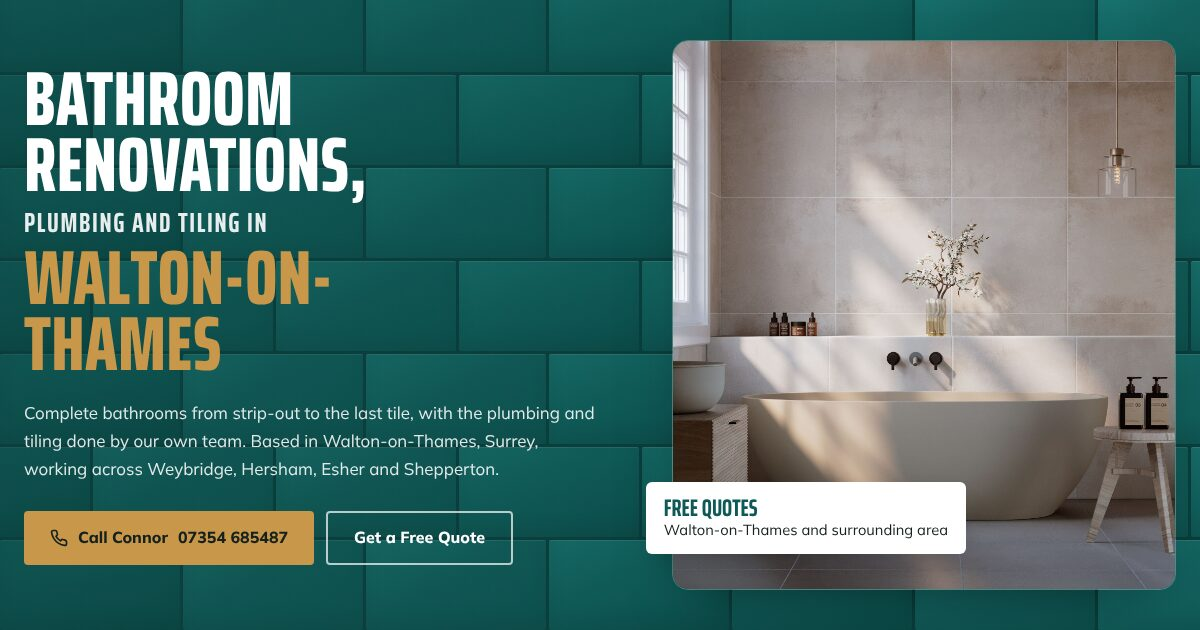
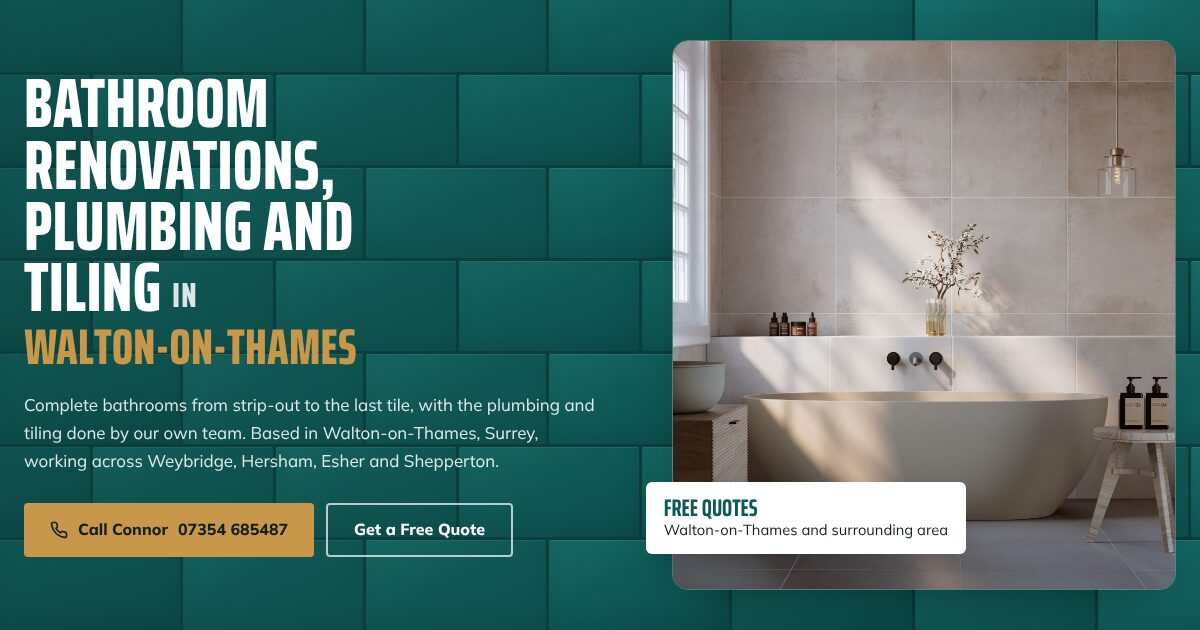
O'Shea Bathrooms A: hero heading at one size, Walton-on-Thames slightly smaller

Changed region(s): [[0.0, 0.0905, 0.3083, 0.6032], [0.0, 0.6333, 0.4933, 0.754], [0.0, 0.7841, 0.4317, 0.9048]]

diff --git a/oshea-bathrooms/index.html b/oshea-bathrooms/index.html
@@ -97,10 +97,10 @@ section{padding-top:96px;padding-bottom:96px}
 
 .hero-grid{width:100%;display:grid;grid-template-columns:1.08fr .92fr;gap:56px;align-items:center;height:clamp(560px,calc(100vh - 68px),800px)}
 .hero-copy{padding-top:24px;padding-bottom:24px}
-.hero h1{color:#fff;font-size:clamp(2.8rem,min(6.4vw,11vh),6.6rem);line-height:.86;letter-spacing:.005em}
+.hero h1{color:#fff;font-size:clamp(2.8rem,min(6vw,10vh),6.2rem);line-height:.88;letter-spacing:.005em}
 .hero h1 .l{display:block}
-.hero h1 .sm{font-size:.36em;letter-spacing:.06em;line-height:1.2;margin:.32em 0 .18em;color:rgba(255,255,255,.9);font-weight:700}
-.hero h1 .br{color:var(--brass)}
+.hero h1 .in{font-size:.5em;letter-spacing:.04em;color:rgba(255,255,255,.85);vertical-align:.12em}
+.hero h1 .br{color:var(--brass);font-size:.72em;margin-top:.12em}
 .lede{max-width:34em;margin-top:22px;font-size:1.06rem;line-height:1.65;color:rgba(255,255,255,.88)}
 .hero-cta{display:flex;flex-wrap:wrap;gap:12px;margin-top:28px}
 .js .hero h1 .l,.js .lede,.js .hero-cta,.js .hero-photo{opacity:0;transform:translateY(22px)}
@@ -249,8 +249,8 @@ footer a:hover{color:#fff}
   .nav-links a.nav-cta{justify-content:center;padding:15px 18px}
   .hero-grid{grid-template-columns:1fr;height:auto;gap:0}
   .hero-copy{padding-top:34px;padding-bottom:30px}
-  .hero h1{font-size:20vw;line-height:.84}
-  .hero h1 .sm{font-size:.3em;margin:.36em 0 .22em}
+  .hero h1{font-size:17vw;line-height:.86}
+  .hero h1 .br{font-size:.7em;margin-top:.16em}
   .lede{font-size:1rem;margin-top:18px}
   .hero-cta{flex-direction:column;margin-top:22px}
   .hero-cta .btn{width:100%}
@@ -308,7 +308,7 @@ footer a:hover{color:#fff}
   <div class="wall" id="wall" aria-hidden="true"></div>
   <div class="wrap hero-grid">
     <div class="hero-copy">
-      <h1><span class="l">Bathroom</span><span class="l">Renovations,</span><span class="l sm">Plumbing and Tiling in</span><span class="l br">Walton-on-</span><span class="l br">Thames</span></h1>
+      <h1><span class="l">Bathroom</span><span class="l">Renovations,</span><span class="l">Plumbing and</span><span class="l">Tiling <span class="in">in</span></span><span class="l br">Walton-on-Thames</span></h1>
       <p class="lede">Complete bathrooms from strip-out to the last tile, with the plumbing and tiling done by our own team. Based in Walton-on-Thames, Surrey, working across Weybridge, Hersham, Esher and Shepperton.</p>
       <div class="hero-cta" id="heroCta">
         <a href="#" class="btn btn-brass js-tel"><svg viewBox="0 0 24 24" fill="none" stroke="currentColor" stroke-width="2.2" stroke-linecap="round" stroke-linejoin="round"><path d="M22 16.9v3a2 2 0 0 1-2.2 2 19.8 19.8 0 0 1-8.6-3.1 19.5 19.5 0 0 1-6-6A19.8 19.8 0 0 1 2.1 4.2 2 2 0 0 1 4.1 2h3a2 2 0 0 1 2 1.7c.1.9.4 1.8.7 2.7a2 2 0 0 1-.5 2.1L8 9.8a16 16 0 0 0 6 6l1.3-1.3a2 2 0 0 1 2.1-.4c.9.3 1.8.6 2.7.7a2 2 0 0 1 1.7 2z"/></svg>Call Connor <span class="js-phone">&nbsp;</span></a>
